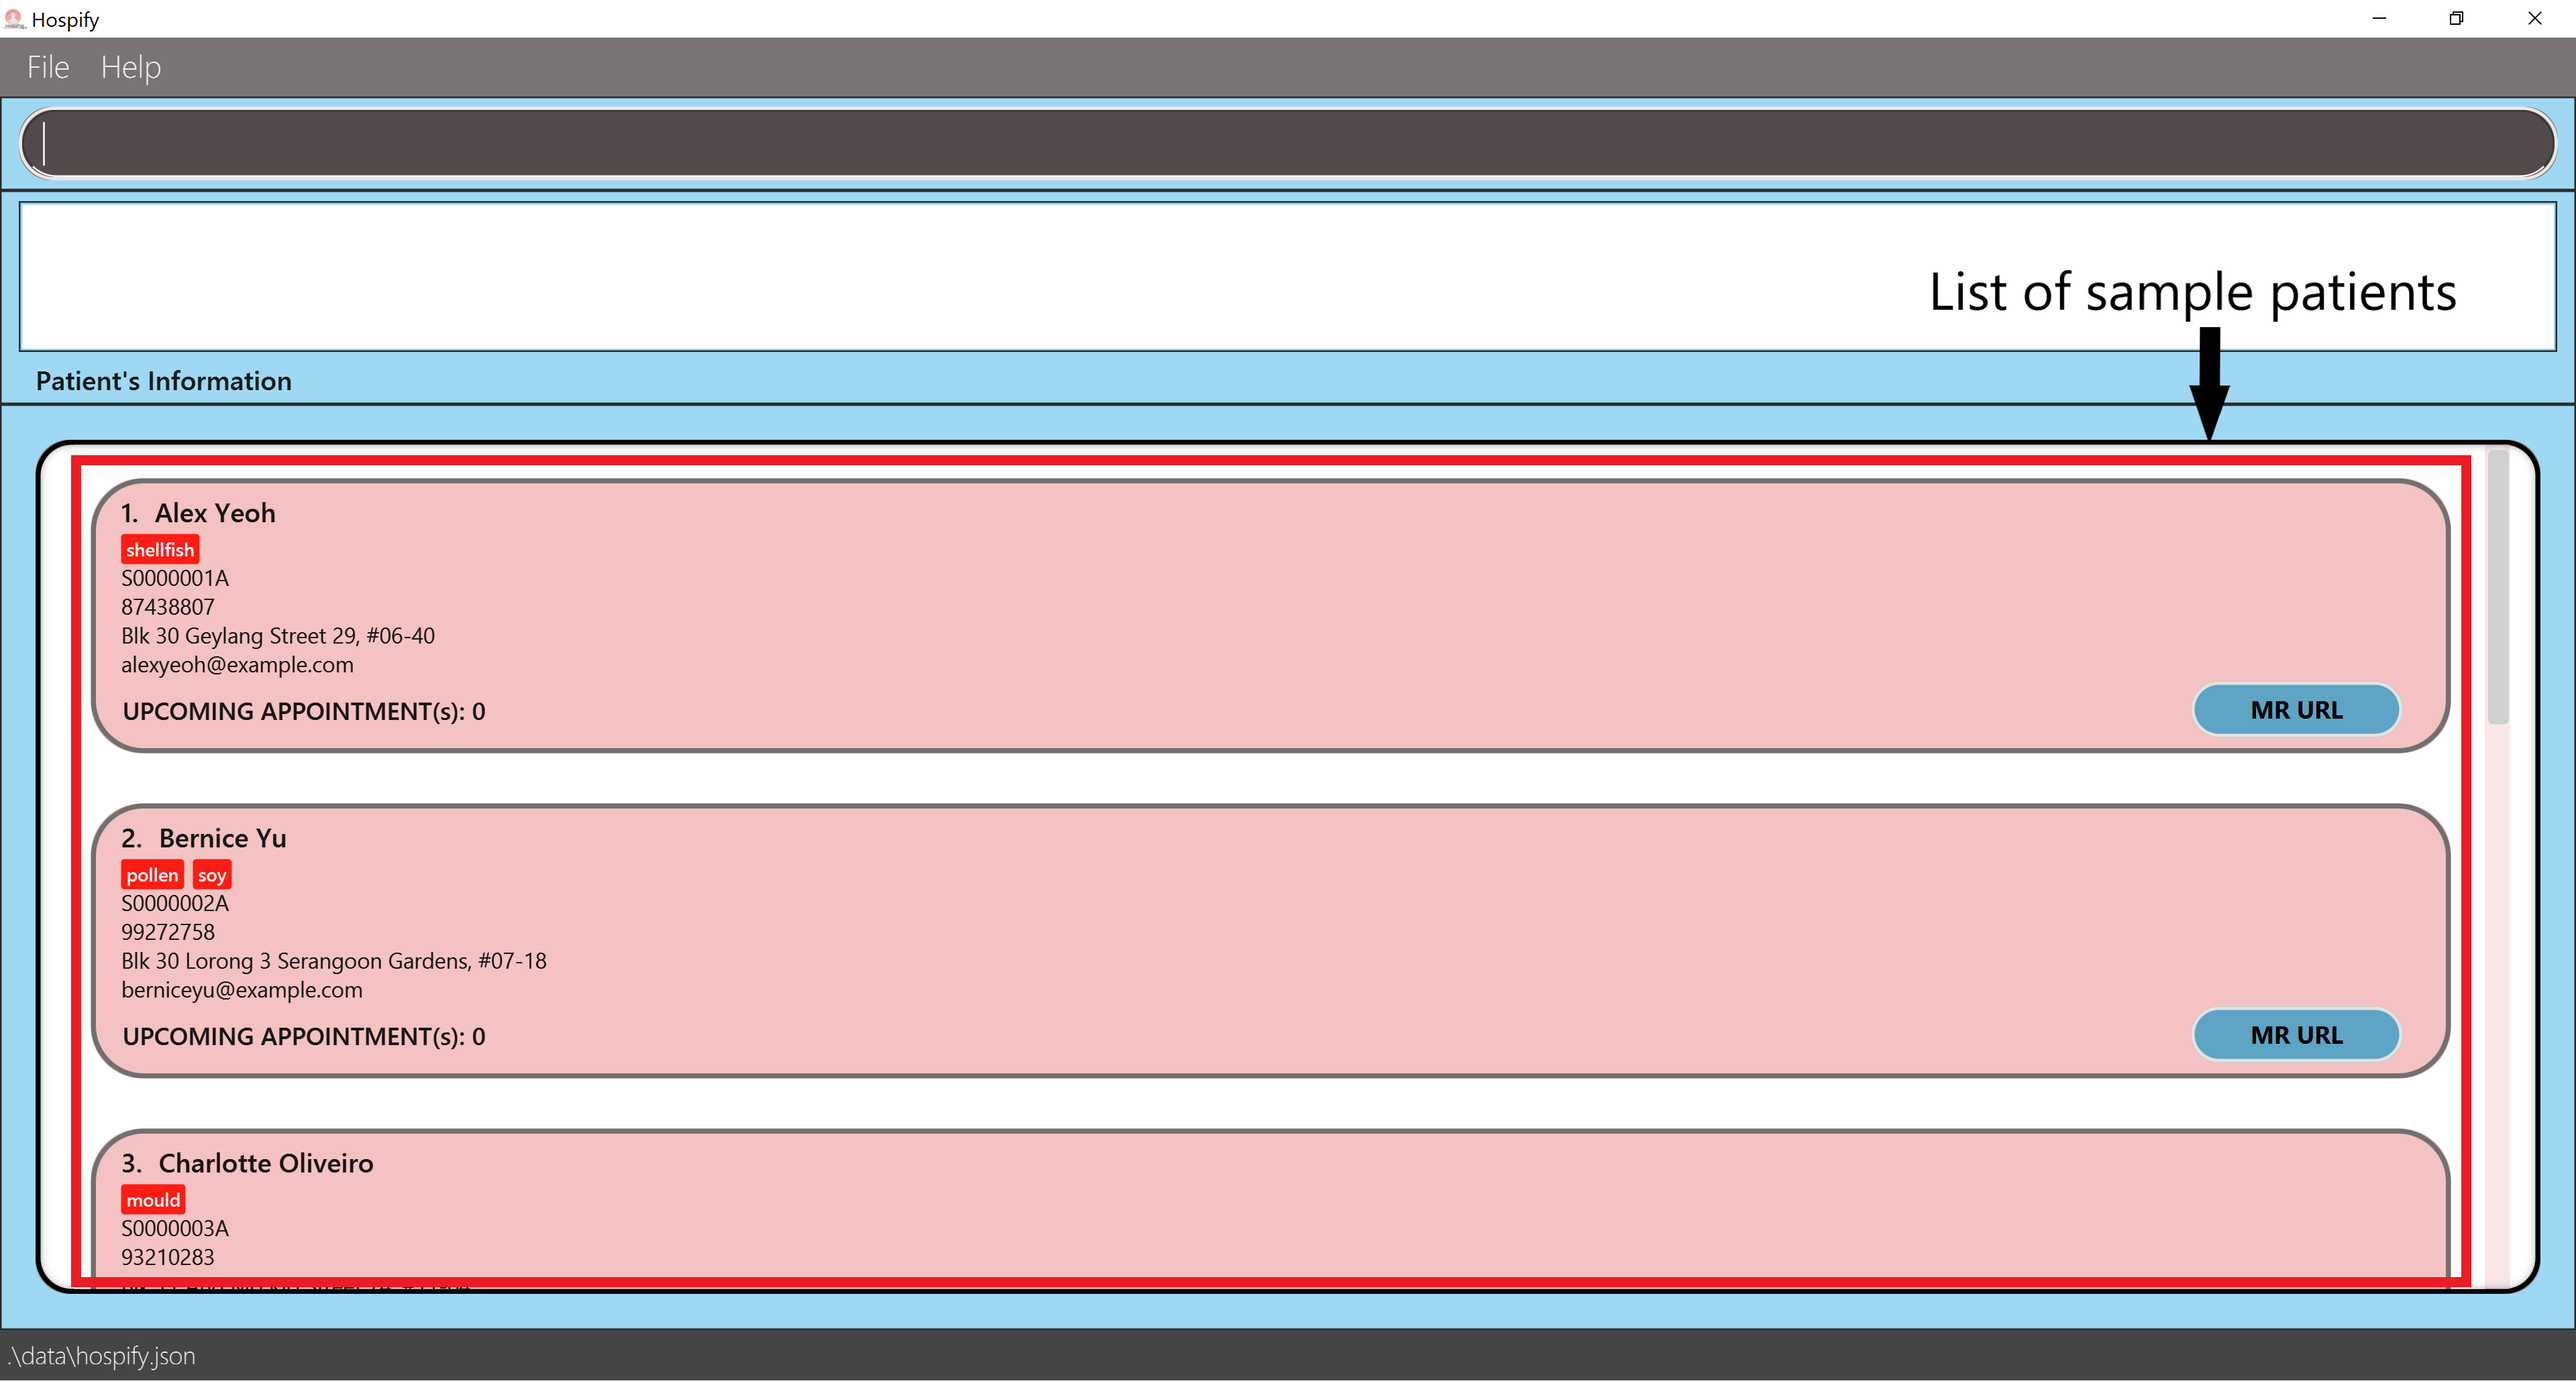
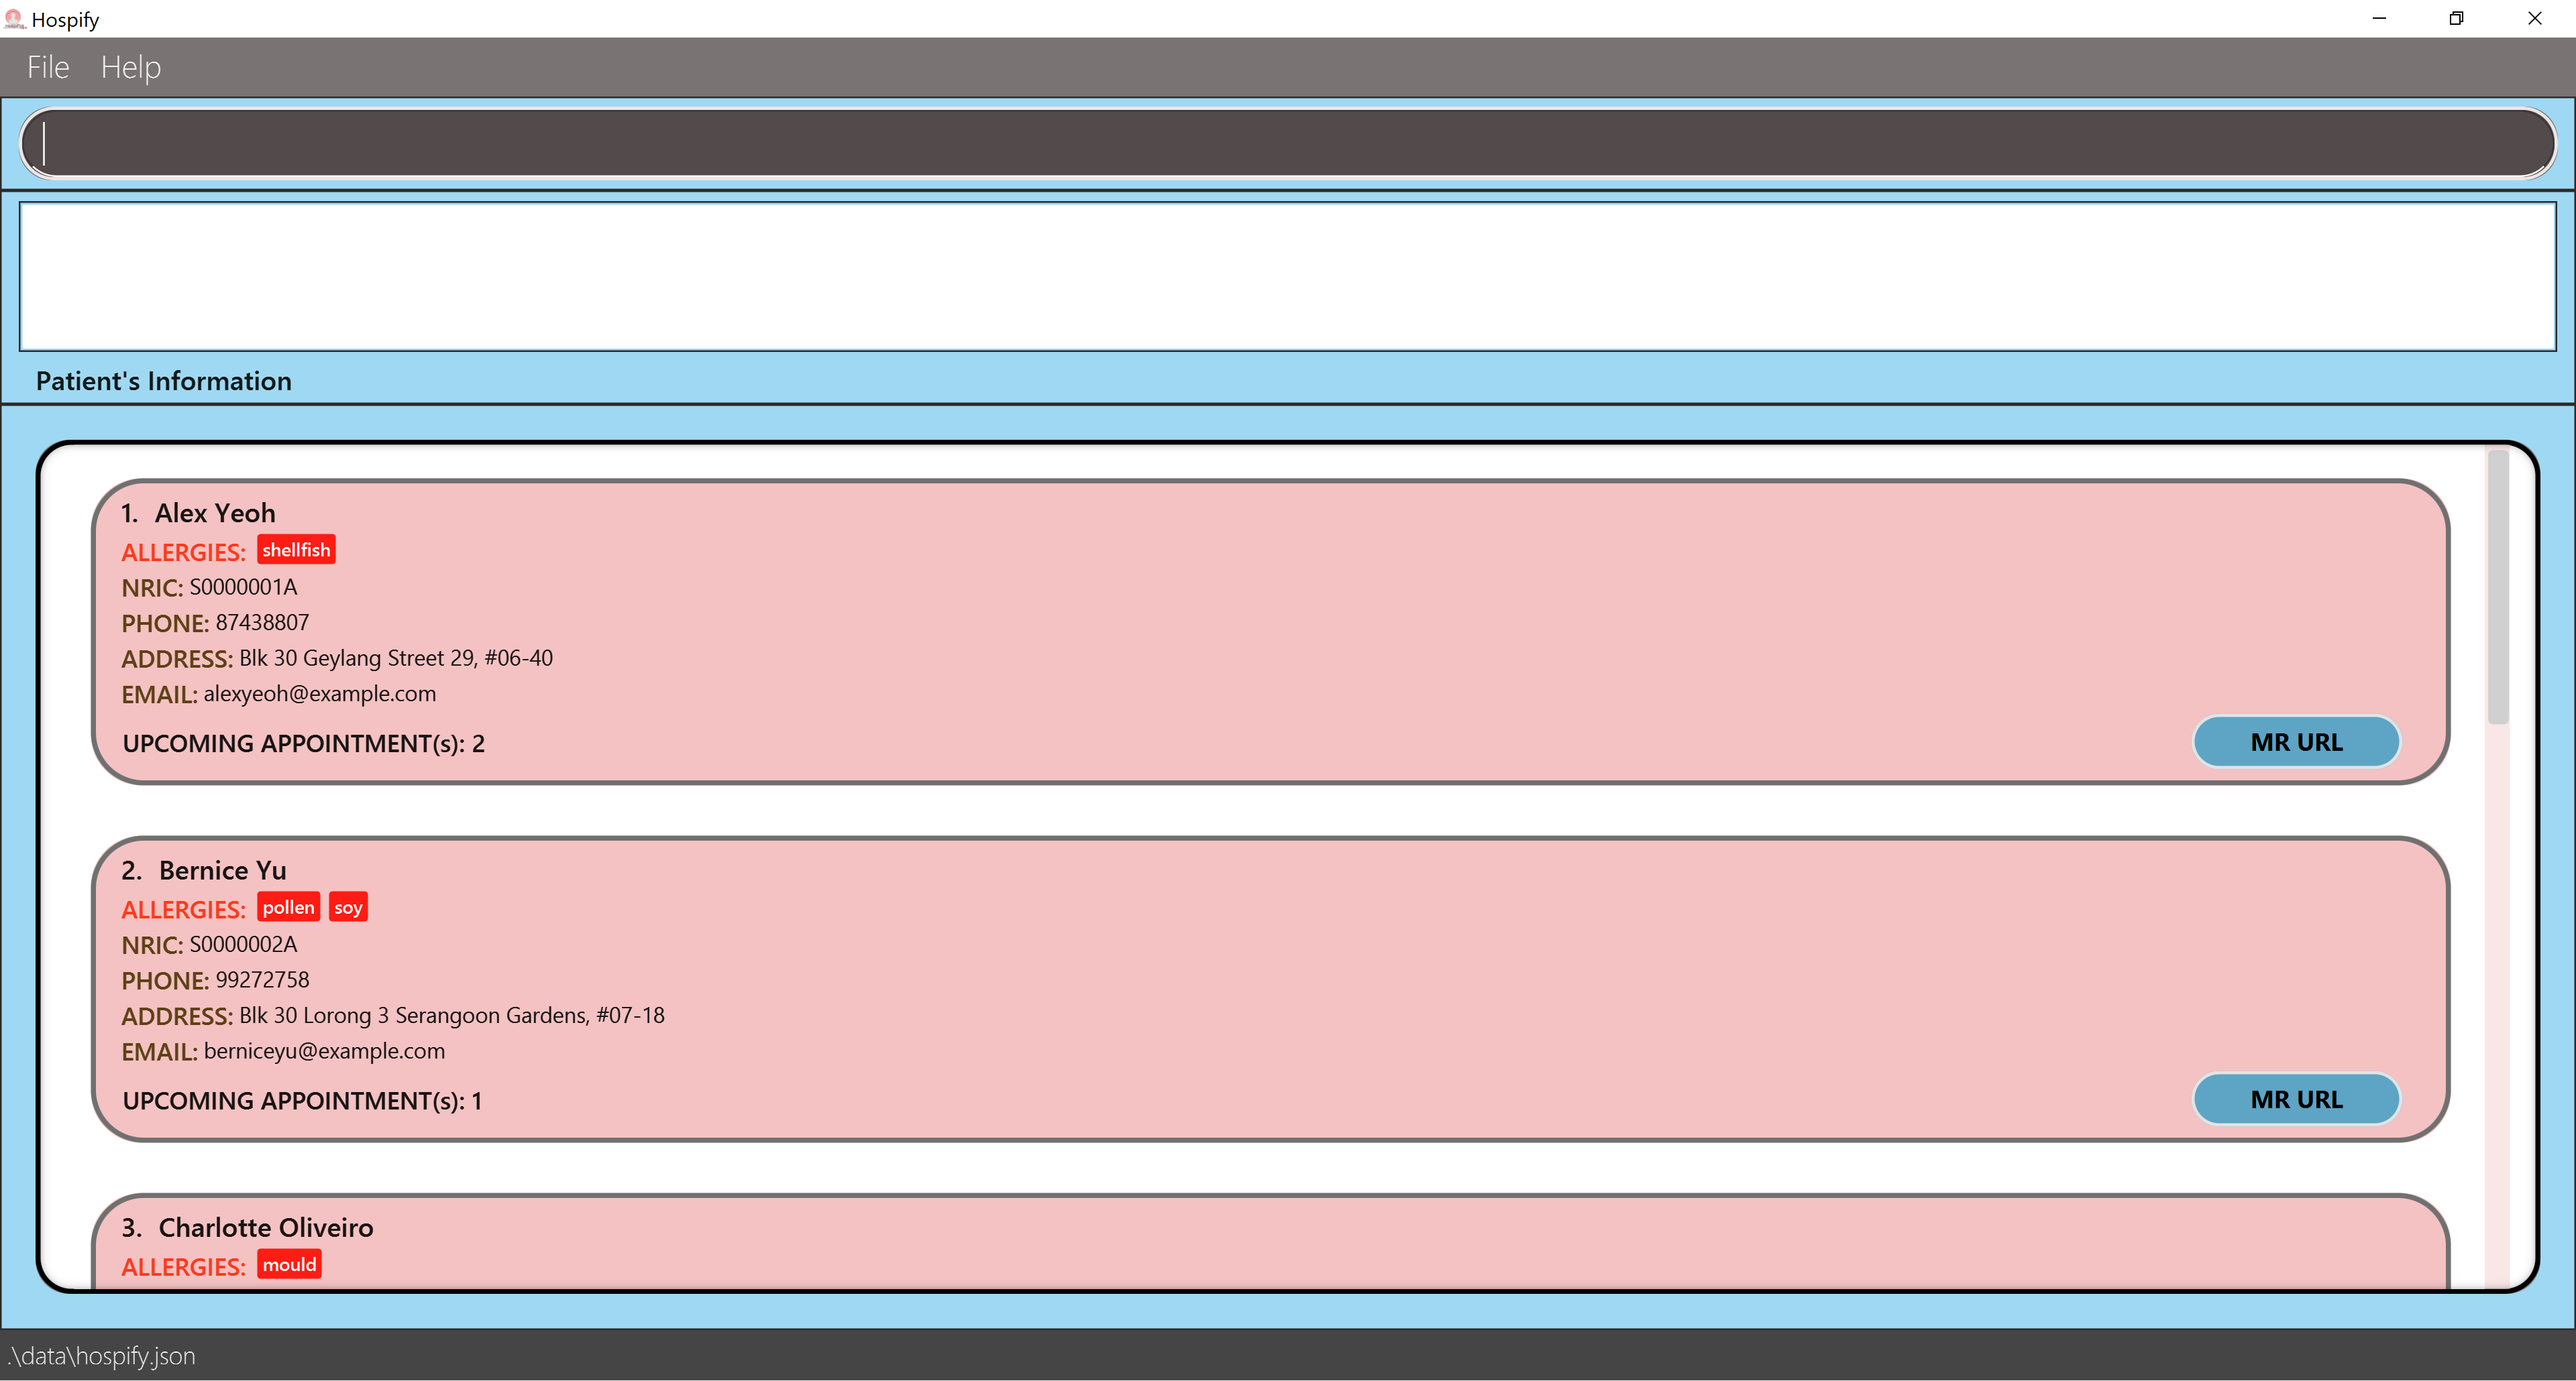
Update User Guide images and Developer Guide

Changed region(s): [[0.0, 0.1864, 0.9688, 0.932]]

diff --git a/docs/UserGuide.md b/docs/UserGuide.md
@@ -46,7 +46,7 @@ There are many versions of Java `11` listed. Select the correct version based on
 
 1. Double-click the file to start the app. A Graphical User Interface (GUI) similar to the one as shown in figure 1.2 below should appear in a few seconds. Notice that **Hospify** came listed with some sample patients.<br>
    
-   ![Ui](images/Ui.png)
+   ![Ui](images/SamplePatients.PNG)
    Figure 1.2 Start up UI showing list of sample patients
 
 1. You can now try typing your very first command in the command box and press `Enter` to execute it! Not sure what to type? Try typing **`help`** and pressing `Enter`. A help window as shown in figure 1.3 below should appear.<br>
@@ -149,8 +149,7 @@ Format: `add n/NAME ic/NRIC p/PHONE_NUMBER [e/EMAIL] a/ADDRESS mr/MEDICAL_RECORD
 
 <div markdown="block" class="alert alert-info">
 
-**:information_source: Note:**<br>
-A patient can have any number of allergies (including 0)
+**:information_source: Note:** A patient can have any number of allergies (including 0)
 </div>
 
 Let us use some examples (as shown below) to see how this command can actually be used.
@@ -161,7 +160,7 @@ Examples:
 
 When a patient is successfully added to **Hospify**, a success message will appear in the message box, and the patient is shown at the bottom of the list as shown in figure 3.1 below. <br>
 
-![Add patient](images/Add%20patient.PNG)
+![Add patient](images/AddPatient.PNG)
 Figure 3.1 Adding a patient (success scenario)
 
 ### Listing all patients: `list` (by Cedric Lim Jun Wei)
@@ -172,17 +171,17 @@ To use the command, simply type in `list` on the command line with no additional
 
 Format: `list`
 
-In the example below, we first use the `find` command to search for patient `Bernice Yu`. This results in a partial list containing only one patient as shown in figure 4.1 below.
+In the example below, we first use the `find` command to search for patient `Bernice Yu`. To do so, we type `find Bernice Yu` on the command line. This results in a partial list containing only one patient as shown in figure 4.1 below.
 
-![Find patient](images/list1.png)
+![Find patient](images/ListPatient1.PNG)
 Figure 4.1 Finding patient `Bernice Yu`
 
 With the help of the `list` command, we can revert back to the complete list of patients as shown in figure 4.2 below.
 
-![List patients](images/list2.png)
+![List patients](images/ListPatient2.PNG)
 Figure 4.2 Listing all patients
 
-### Editing a patient: `edit` (by Peh Jun Siang)
+### Editing a patient: `edit` (by Cao Qin)
 
 Edits an existing patient in **Hospify**.
 
@@ -460,7 +459,7 @@ When an `Appointment` is successfully deleted, a success message will appear in 
 
 ### Using the Medical Record feature: `mr/` (by Cedric Lim Jun Wei)
 
-By now we have learnt that we can [`add`](#adding-a-patient-add-by-cedric-lim-jun-wei) and [`edit`](#editing-a-patient-edit-by-peh-jun-siang) patients by including the `mr/MEDICAL_RECORD_URL` field. Recall that this is a compulsory field for the `add` command while it is an optional field for the `edit` command and we can summarise the command formats as shown below.
+By now we have learnt that we can [`add`](#adding-a-patient-add-by-cedric-lim-jun-wei) and [`edit`](#editing-a-patient-edit-by-cao-qin) patients by including the `mr/MEDICAL_RECORD_URL` field. Recall that this is a compulsory field for the `add` command while it is an optional field for the `edit` command and we can summarise the command formats as shown below.
 
 Format: `add n/NAME … mr/MEDICAL_RECORD_URL …` or `edit INDEX … [mr/MEDICAL_RECORD_URL] …`
 
@@ -479,24 +478,24 @@ With this field, you can store the url to the online medical record of the patie
 
 In the following example, we will be using [Google Docs](https://docs.google.com) to store the medical record of patient `John Doe`.
 
-1. First, we add patient `John Doe` using the `add` command. Upon successful addition, you should be able to see a success message including the `MEDICAL_RECORD_URL` you have just added when you scroll the message box to the right as shown in figure 14.1 below.<br>
+1. First, we add patient `John Doe` using the `add` command. For this step, we will be using the url `https://docs.google.com/document/d/1cWm83218iwKEzNHP41vHFWLukaDn6eYompjyCcJxBiA/edit`. Upon successful addition, you should be able to see a success message including the `MEDICAL_RECORD_URL` you have just added when you scroll the message box to the bottom as shown in figure 14.1 below.<br>
     
-    ![medical record example 1](images/Medical%20record%20example%20(1).png)
+    ![medical record example 1](images/MrUrl1.PNG)
     Figure 14.1 Adding patient John Doe
     
 1. Next, to copy the medical record url of patient `John Doe` that we have just added, locate the patient in the list and click on the `MR URL` button located on the bottom right corner as shown in figure 14.2 below. A `Link Copied!` success message should appear once clicked, indicating that the link has been copied to the system clipboard.<br>
     
-    ![medical record example 2](images/Medical%20record%20example%20(2).png)
+    ![medical record example 2](images/MrUrl2.PNG)
     Figure 14.2 Copying medical record url of John Doe
     
 1. Then, open the web browser of your choice and paste the medical record url onto the search bar as shown in figure 14.3 below.<br>
     
-    ![medical record example 3](images/Medical%20record%20example%20(3).png)
+    ![medical record example 3](images/MrUrl3.PNG)
     Figure 14.3 Pasting medical record url of John Doe onto search bar
     
 1. Finally, you can access the medical record of the patient and make edits if applicable. A sample medical record is shown in figure 14.4 below for your reference.<br>
     
-    ![medical record example 4](images/Medical%20record%20example%20(4).png)
+    ![medical record example 4](images/MrUrl4.png)
     Figure 14.4 Sample medical record of John Doe on Google Docs
 
 The example we have just discussed uses the `add` command. The usage of the `MEDICAL_RECORD_URL` field in `edit` works in the same way as described in the `add` example as well.

diff --git a/docs/DeveloperGuide.md b/docs/DeveloperGuide.md
@@ -343,8 +343,7 @@ The appointment feature will enable clinics to manage patient's appointments wit
 Users have the ability to show, add, delete, edit appointments within the app. 
 
 #### 4.5.1 Implementation
-
-#### Overview:
+##### Overview:
 
 * An `Appointment` class is created in the `patient` package.
 * A new prefix `appt/` to be used with the new `Appointment` field.
